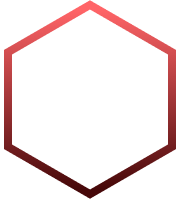
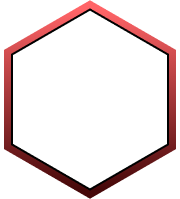
feat: count units by faction to determine factions

diff --git a/src/components/editor/FormationProvider.tsx b/src/components/editor/FormationProvider.tsx
@@ -5,13 +5,15 @@ import type {
   ArtifactFormationData,
   Faction,
   MenuTabTypes,
+  Talents,
   TileData,
   UnitClass,
   UnitFormationData,
 } from '@/components/editor/types';
 import type { Dispatch, FC, PropsWithChildren, SetStateAction } from 'react';
 
-import { ArenaPresets } from '@/components/editor/types';
+import { ArenaPresets, requiredUnits } from '@/components/editor/types';
+import { countUnits } from '@/components/editor/utils';
 
 interface FormationContextType {
   title: string;
@@ -58,6 +60,9 @@ interface FormationContextType {
   updateUnit: (tile: TileData) => void;
   menuTab: MenuTabTypes;
   setMenuTab: Dispatch<SetStateAction<MenuTabTypes>>;
+  activeFaction?: Talents;
+  isTalents: boolean;
+  setTalents: Dispatch<SetStateAction<boolean>>;
 }
 
 const FormationContext = createContext<FormationContextType | undefined>(undefined);
@@ -87,6 +92,8 @@ export const FormationProvider: FC<PropsWithChildren> = ({ children }) => {
   const [searchFilter, setSearchFilter] = useState<string>('');
   const [isEditArena, setEditArena] = useState<boolean>(false);
   const [menuTab, setMenuTab] = useState<MenuTabTypes>('artifact');
+  const [activeFaction, setActiveFaction] = useState<Talents>();
+  const [isTalents, setTalents] = useState<boolean>(true);
 
   const updateArena = (tile: TileData) =>
     setTileData(prev =>
@@ -170,6 +177,26 @@ export const FormationProvider: FC<PropsWithChildren> = ({ children }) => {
     }
   }, [tileData]);
 
+  useEffect(() => {
+    let currentFaction = undefined as Talents | undefined;
+    const count = {} as Record<Talents, number>;
+    countUnits(count, units, (faction?: Talents) => {
+      if (!activeFaction) {
+        currentFaction = faction;
+      }
+    });
+
+    if (!currentFaction) {
+      if (activeFaction && count[activeFaction] >= requiredUnits) {
+        currentFaction = activeFaction;
+      } else {
+        const nextFaction = Object.keys(count).find(faction => count[faction as unknown as Talents] >= requiredUnits);
+        currentFaction = nextFaction as Talents | undefined;
+      }
+    }
+    setActiveFaction(currentFaction ?? undefined);
+  }, [units]);
+
   return (
     <FormationContext.Provider
       value={{
@@ -217,6 +244,9 @@ export const FormationProvider: FC<PropsWithChildren> = ({ children }) => {
         updateUnit,
         menuTab,
         setMenuTab,
+        activeFaction,
+        isTalents,
+        setTalents,
       }}
     >
       {children}

diff --git a/src/components/editor/UnitEditor.tsx b/src/components/editor/UnitEditor.tsx
@@ -31,6 +31,8 @@ const UnitEditor: FC = () => {
     setEditArena,
     setCurrentTile,
     setCurrentArtifact,
+    isTalents,
+    setTalents,
   } = useFormation();
 
   const arenaProps = {
@@ -48,6 +50,7 @@ const UnitEditor: FC = () => {
     hideNumbers: isNumber,
     hideEmptyArtifact,
     disableEmpty: true,
+    hideTalents: isTalents,
     onClick: updateUnit,
   };
 
@@ -63,7 +66,7 @@ const UnitEditor: FC = () => {
     setCurrentTile(undefined);
     setCurrentArtifact(undefined);
     const image = await htmlToImage.toPng(unitGrid, { pixelRatio: 1 });
-    
+
     return image;
   };
 
@@ -122,6 +125,12 @@ const UnitEditor: FC = () => {
 
   const unitControls = [
     {
+      name: 'talentToggle',
+      defaultChecked: !isTalents,
+      value: 'Talents',
+      onChange: setTalents,
+    },
+    {
       name: 'emptyToggle',
       defaultChecked: !isEmpty,
       value: 'Grid',
@@ -153,15 +162,9 @@ const UnitEditor: FC = () => {
   const controlDivs = [
     {
       label: 'Enable:',
+      hideLabel: true,
       divs: unitControls.map(({ onChange, name, ...props }) => (
-        <Toggle
-          key={name}
-          className="grow"
-          variant="switch"
-          name={name}
-          onChange={e => onChange(!e.target.checked)}
-          {...props}
-        />
+        <Toggle key={name} variant="switch" name={name} onChange={e => onChange(!e.target.checked)} {...props} />
       )),
     },
   ];
@@ -173,10 +176,10 @@ const UnitEditor: FC = () => {
           <EditorSidebar />
           <TileGrid {...gridProps}>
             <div className="flex flex-col w-full gap-2">
-              {controlDivs.map(({ label, divs }) => (
+              {controlDivs.map(({ label, hideLabel, divs }) => (
                 <div key={label} className="w-full flex flex-row gap-2 items-center">
-                  <span>{label}</span>
-                  <div className="w-full flex flex-row gap-2">{divs}</div>
+                  {!hideLabel && <span>{label}</span>}
+                  <div className="w-full flex flex-row gap-2 flex-wrap">{divs}</div>
                 </div>
               ))}
             </div>

diff --git a/src/components/editor/utils.ts b/src/components/editor/utils.ts
@@ -1,6 +1,6 @@
-import type { Unit } from '@/components/editor/types';
+import type { Talents, Unit, UnitFormationData } from '@/components/editor/types';
 
-import { Units, indexToPosition } from '@/components/editor/types';
+import { PairSet, UnitPairs, Units, UnitsByFaction, indexToPosition, requiredUnits } from '@/components/editor/types';
 import { cleanString, sortData } from '@/utils/utils';
 
 export const validateSearch = (searchFilter: string, ...fields: string[]) => {
@@ -88,4 +88,50 @@ export const getDrawImage = (str: string) => {
   }
 
   return { src, path };
+};
+
+const updateFactionCount = (
+  factionCount: Record<Talents, number>,
+  faction: Talents,
+  count: number,
+  setCurrentFaction: (string?: Talents) => void,
+) => {
+  factionCount[faction] ??= 0;
+  factionCount[faction] += count;
+
+  if (factionCount[faction] >= requiredUnits) {
+    setCurrentFaction(faction);
+  }
+};
+
+export const countUnits = (
+  count: Record<Talents, number>,
+  units: UnitFormationData,
+  setCurrentFaction: (faction?: Talents) => void,
+) => {
+  const unitCount = {} as Record<string, number>;
+
+  Object.entries(units).forEach(([_, { unit, type }]) => {
+    if (type !== 1) {
+      return;
+    }
+
+    // eslint-disable-next-line @typescript-eslint/no-explicit-any
+    if (PairSet.has(unit as any)) {
+      unitCount[unit] ??= 0;
+      unitCount[unit]++;
+    } else {
+      updateFactionCount(count, UnitsByFaction[unit], 1, setCurrentFaction);
+    }
+  });
+
+  UnitPairs.forEach(pairs => {
+    const pairCounts = pairs.map(unit => unitCount[unit] || 0);
+    const maxPairs = Math.min(...pairCounts);
+    if (!maxPairs) {
+      return;
+    }
+
+    updateFactionCount(count, UnitsByFaction[pairs[0]], maxPairs, setCurrentFaction);
+  });
 };

diff --git a/src/components/editor/types.ts b/src/components/editor/types.ts
@@ -4,6 +4,7 @@ export const Faction = ['Lightbearer', 'Wilder', 'Mauler', 'Graveborn', 'Celesti
 export type Faction = (typeof Faction)[number];
 export type UnitClass = (typeof UnitClass)[number];
 export type ArtifactSource = 'Pre-Season' | `Season ${number}`;
+export type Talents = 'Lightbearer' | 'Wilder' | 'Mauler' | 'Graveborn' | 'Celestial-Hypogean';
 
 export const currentSeason = 'Season 3' as const;
 
@@ -105,6 +106,24 @@ export const Units = {
   Hypogean,
 } as FactionData;
 
+export const UnitsByFaction = Object.entries(Units).reduce(
+  (units, [faction, classData]) => {
+    const isCeleHypo = faction === 'Celestial' || faction === 'Hypogean';
+    const factionName = isCeleHypo ? 'Celestial-Hypogean' : (faction as Talents);
+
+    Object.values(classData).forEach(classUnits => {
+      classUnits.forEach(unit => {
+        units[unit] ??= factionName;
+      });
+    });
+
+    units[`${faction} Wildcard`] ??= factionName;
+
+    return units;
+  },
+  { 'Celestial-Hypogean Wildcard': 'Celestial-Hypogean' } as Record<string, Talents>,
+);
+
 export type Formation = {
   id?: number;
   title: string;
@@ -205,3 +224,18 @@ export const indexToPosition = [
 export const HexPath = '/assets/images/hexes/';
 
 export type MenuTabTypes = 'preset' | 'artifact' | 'editor';
+
+export const requiredUnits = 3;
+export const UnitPairs = [
+  ['Phraesto', 'Phraesto Clone'],
+  ['Elijah', 'Lailah'],
+] as const;
+export const PairSet = new Set(UnitPairs.flatMap(pairs => pairs));
+
+export const TalentLocations = {
+  Lightbearer: false,
+  Wilder: false,
+  Mauler: true,
+  Graveborn: false,
+  'Celestial-Hypogean': false,
+} as const;

diff --git a/src/components/editor/TileGrid.tsx b/src/components/editor/TileGrid.tsx
@@ -21,6 +21,7 @@ interface TileGridProps extends PropsWithChildren {
   hideUnits?: boolean;
   disableArtifacts?: boolean;
   hideEmptyArtifact?: boolean;
+  hideTalents?: boolean;
   onClick?: (tile: TileData) => void;
 }
 
@@ -35,6 +36,7 @@ const TileGrid: FC<TileGridProps> = ({
   disableArtifacts,
   hideUnits,
   hideEmptyArtifact,
+  hideTalents,
   onClick,
   children,
 }) => {
@@ -50,6 +52,7 @@ const TileGrid: FC<TileGridProps> = ({
     artifactData,
     setArtifactData,
     units,
+    activeFaction,
   } = useFormation();
   const [firstPlayerRow, setFirstPlayerRow] = useState<number>();
   const [lastPlayerRow, setLastPlayerRow] = useState<number>();
@@ -200,7 +203,8 @@ const TileGrid: FC<TileGridProps> = ({
 
             let src = 'Generic-Outline';
             if (state === 1) {
-              src = (!hideUnits && unit) || 'Generic-Hex';
+              const blank = !hideTalents && activeFaction ? `${activeFaction}-Hex` : 'Generic-Hex';
+              src = (!hideUnits && unit) || blank;
             }
             if (state === -1 && !disableEnemy) {
               src = (!hideUnits && unit) || 'Enemy-Hex';

diff --git a/src/components/editor/ArtifactGrid.tsx b/src/components/editor/ArtifactGrid.tsx
@@ -22,6 +22,7 @@ const ArtifactGrid: FC = () => {
     artifacts.map(artifact => (
       <div key={artifact} className="relative">
         <Button
+          size="sm"
           className="w-full"
           selected={!disabled && artifactData[key].includes(artifact)}
           hierarchy={hierarchy}
@@ -90,7 +91,7 @@ const ArtifactGrid: FC = () => {
             </Button>
           ))}
         </div>
-        <div className="scroll-bar-left scroll-bar-auto max-h-92 overflow-y-auto">
+        <div className="scroll-bar-left scroll-bar-auto max-h-80 4xl:max-h-92 overflow-y-auto">
           <div className="w-52 flex flex-col gap-2">
             <div
               className={joinStrings(
